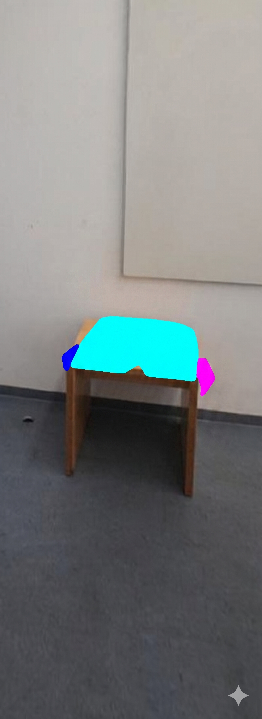
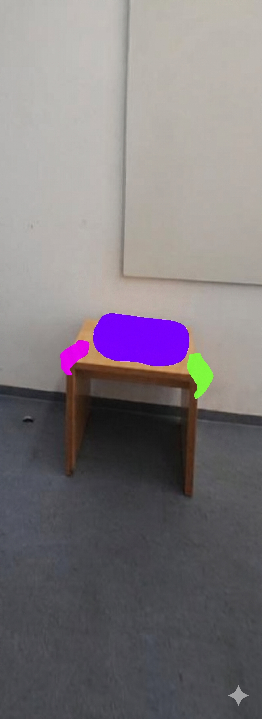
new contact overlays/masks for 3 and 13

Changed region(s): [[0.2137, 0.4284, 0.8244, 0.5508]]

diff --git a/04_Estimate_Contact/02_estimate_contact.py b/04_Estimate_Contact/02_estimate_contact.py
@@ -42,7 +42,7 @@ def parse_args(argv: list[str] | None = None) -> argparse.Namespace:
     parser.add_argument("--color-hue-tolerance", type=float, default=12.0)
     parser.add_argument("--min-color-saturation", type=int, default=80)
     parser.add_argument("--min-color-value", type=int, default=40)
-    parser.add_argument("--min-component-area", type=int, default=0)
+    parser.add_argument("--min-component-area", type=int, default=10)
     parser.add_argument("--keep-components", type=int, default=1)
     parser.add_argument("--target-mask-erode-pixels", type=int, default=2)
     parser.set_defaults(script_dir=script_dir, project_dir=project_dir)

diff --git a/04_Estimate_Contact/output/interaction_03/prompt/prompt.md b/04_Estimate_Contact/output/interaction_03/prompt/prompt.md
@@ -18,6 +18,6 @@ Colors: Use only the exact solid colors listed below for contacting body-part ma
 Constraints: Do not add the generated human body, text labels, arrows, legends, boxes, keypoints, outlines, or any other annotations. Show only the original Canvas Image with the colored body-part masks overlaid for the specified contacting parts.
 
 Color Mapping for Segmentation Masks:
-Hips: The hips is in contact with the target object. Copy the visible hips mask shape from the Reference Image onto the matching location in the returned overlay image using solid #00FFFF / RGB(0, 255, 255) (pure cyan).
-Left Hand: The left hand is in contact with the target object. Copy the visible left hand mask shape from the Reference Image onto the matching location in the returned overlay image using solid #0000FF / RGB(0, 0, 255) (pure blue).
-Right Hand: The right hand is in contact with the target object. Copy the visible right hand mask shape from the Reference Image onto the matching location in the returned overlay image using solid #FF00FF / RGB(255, 0, 255) (pure magenta).
+Hips: The hips is in contact with the target object. Copy the visible hips mask shape from the Reference Image onto the matching location in the returned overlay image using solid #7601FD / RGB(118, 1, 253) (bright violet).
+Left Hand: The left hand is in contact with the target object. Copy the visible left hand mask shape from the Reference Image onto the matching location in the returned overlay image using solid #E502EC / RGB(229, 2, 236) (bright magenta).
+Right Hand: The right hand is in contact with the target object. Copy the visible right hand mask shape from the Reference Image onto the matching location in the returned overlay image using solid #7FF73D / RGB(127, 247, 61) (bright lime green).
